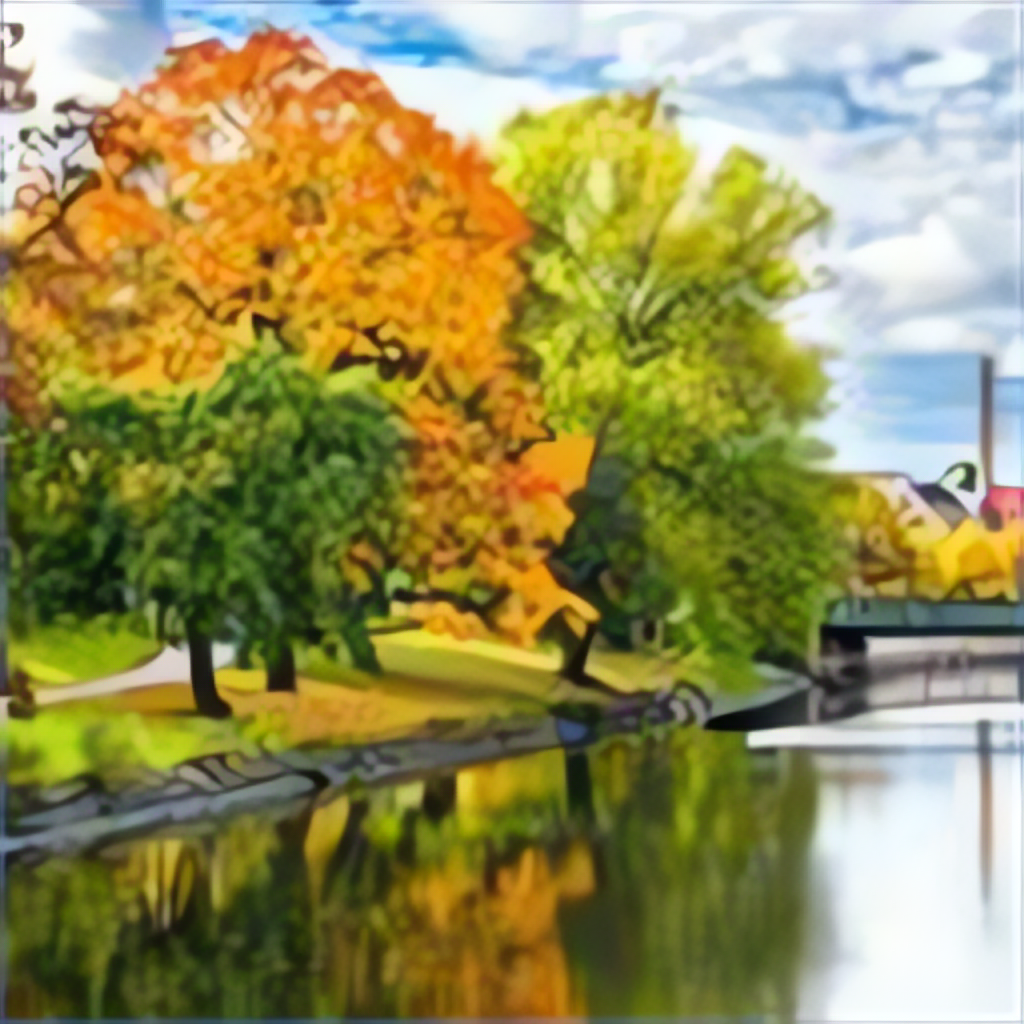
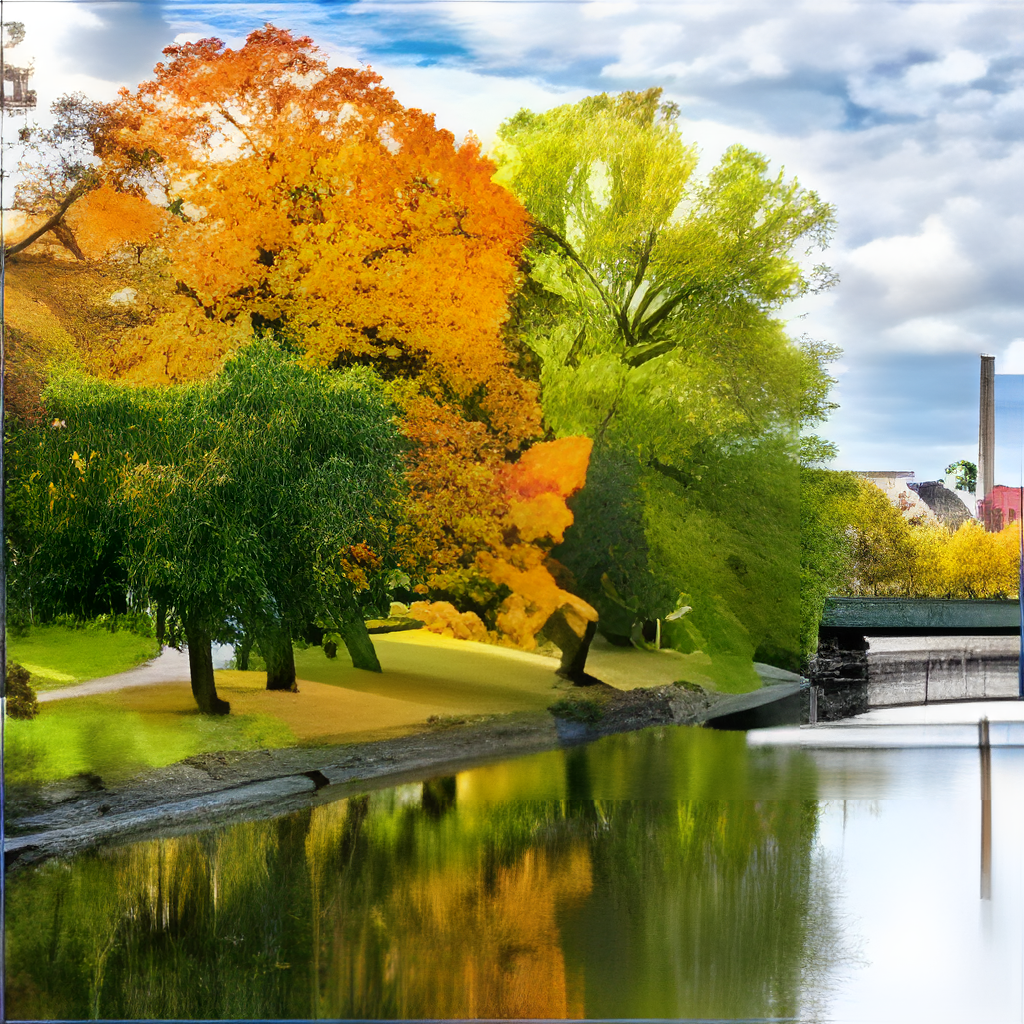
Fixed upscaling

diff --git a/main/index.js b/main/index.js
@@ -7,7 +7,13 @@ const fs = require("fs");
 const { execPath, modelsPath } = require("./binaries");
 
 // Packages
-const { BrowserWindow, app, ipcMain, dialog } = require("electron");
+const {
+  BrowserWindow,
+  app,
+  ipcMain,
+  dialog,
+  ipcRenderer,
+} = require("electron");
 const isDev = require("electron-is-dev");
 const prepareNext = require("electron-next");
 
@@ -33,7 +39,7 @@ app.on("ready", async () => {
       });
 
   mainWindow.setMenuBarVisibility(false);
-  mainWindow.maximize();
+  // mainWindow.maximize();
   mainWindow.loadURL(url);
 });
 
@@ -45,7 +51,7 @@ ipcMain.on("sendMessage", (_, message) => {
   console.log(message);
 });
 
-ipcMain.handle("open", async () => {
+ipcMain.on("open", async () => {
   const { canceled, filePaths } = await dialog.showOpenDialog({
     properties: ["openFile", "multiSelections"],
   });
@@ -67,33 +73,41 @@ ipcMain.handle("open", async () => {
 
     // COPY IMAGE TO upscaled FOLDER
     const fileName = filePaths[0].split("/").slice(-1)[0];
-    console.log("🚀 => ipcMain.handle => fileName", fileName);
     fs.copyFile(filePaths[0], inputDir + "/" + fileName, (err) => {
       if (err) throw err;
-      console.log("File Copy Successfully.");
     });
 
     // UPSCALE
-    console.log(execPath);
-    console.log(modelsPath);
-    let command = spawn(execPath, [
-      "-i",
-      inputDir,
-      "-o",
-      outputDir,
-      "-s",
-      4,
-      "-m",
-      modelsPath,
-    ]);
-    command.stdout.on("data", (data) => {
-      console.log("stdout: ", data.toString());
+    let upscayl = spawn(
+      execPath,
+      [
+        "-i",
+        inputDir,
+        "-o",
+        outputDir,
+        "-s",
+        "4",
+        "-m",
+        modelsPath,
+        "-n",
+        "realesrgan-x4plus",
+      ],
+      {
+        cwd: null,
+        detached: false,
+      }
+    );
+    upscayl.stdout.on("data", (stdout) => {
+      console.log("UPSCAYL: ", stdout.toString());
+      // TODO: SEND THE STDOUT TO RENDERER FROM HERE
     });
-    command.on("error", (error) => {
-      console.log(error);
+
+    upscayl.stderr.on("data", (stderr) => {
+      console.log(stderr.toString());
     });
-    command.on("exit", (code, signal) => {
-      console.log("Exit: ", code, signal);
+
+    upscayl.on("close", (code) => {
+      console.log("Done upscaling", code);
     });
 
     return filePaths[0];

diff --git a/renderer/pages/index.jsx b/renderer/pages/index.jsx
@@ -2,15 +2,22 @@ import { useState, useEffect, useRef } from "react";
 
 const Home = () => {
   const [imagePath, SetImagePath] = useState();
+  const [loaded, setLoaded] = useState(false);
 
   useEffect(() => {
     // send(command, payload)
     window.electron.send("sendMessage", { message: "Hello!" });
+    setLoaded(true);
+
+    window.electron.on("done", () => {
+      console.log("DONE");
+    });
   }, []);
 
   const imageHandler = async () => {
-    var path = await window.electron.invoke("open");
+    var path = await window.electron.send("open");
     SetImagePath(path);
+
     console.log(imagePath);
   };
 

diff --git a/main/preload.js b/main/preload.js
@@ -1,4 +1,10 @@
 const { ipcRenderer, contextBridge } = require("electron");
 
 // 'ipcRenderer' will be available in index.js with the method 'window.electron'
-contextBridge.exposeInMainWorld("electron", ipcRenderer);
+contextBridge.exposeInMainWorld("electron", {
+  send: (command, payload) => ipcRenderer.send(command, payload),
+  on: (command, func) =>
+    ipcRenderer.on(command, (event, args) => {
+      func(...args);
+    }),
+});
